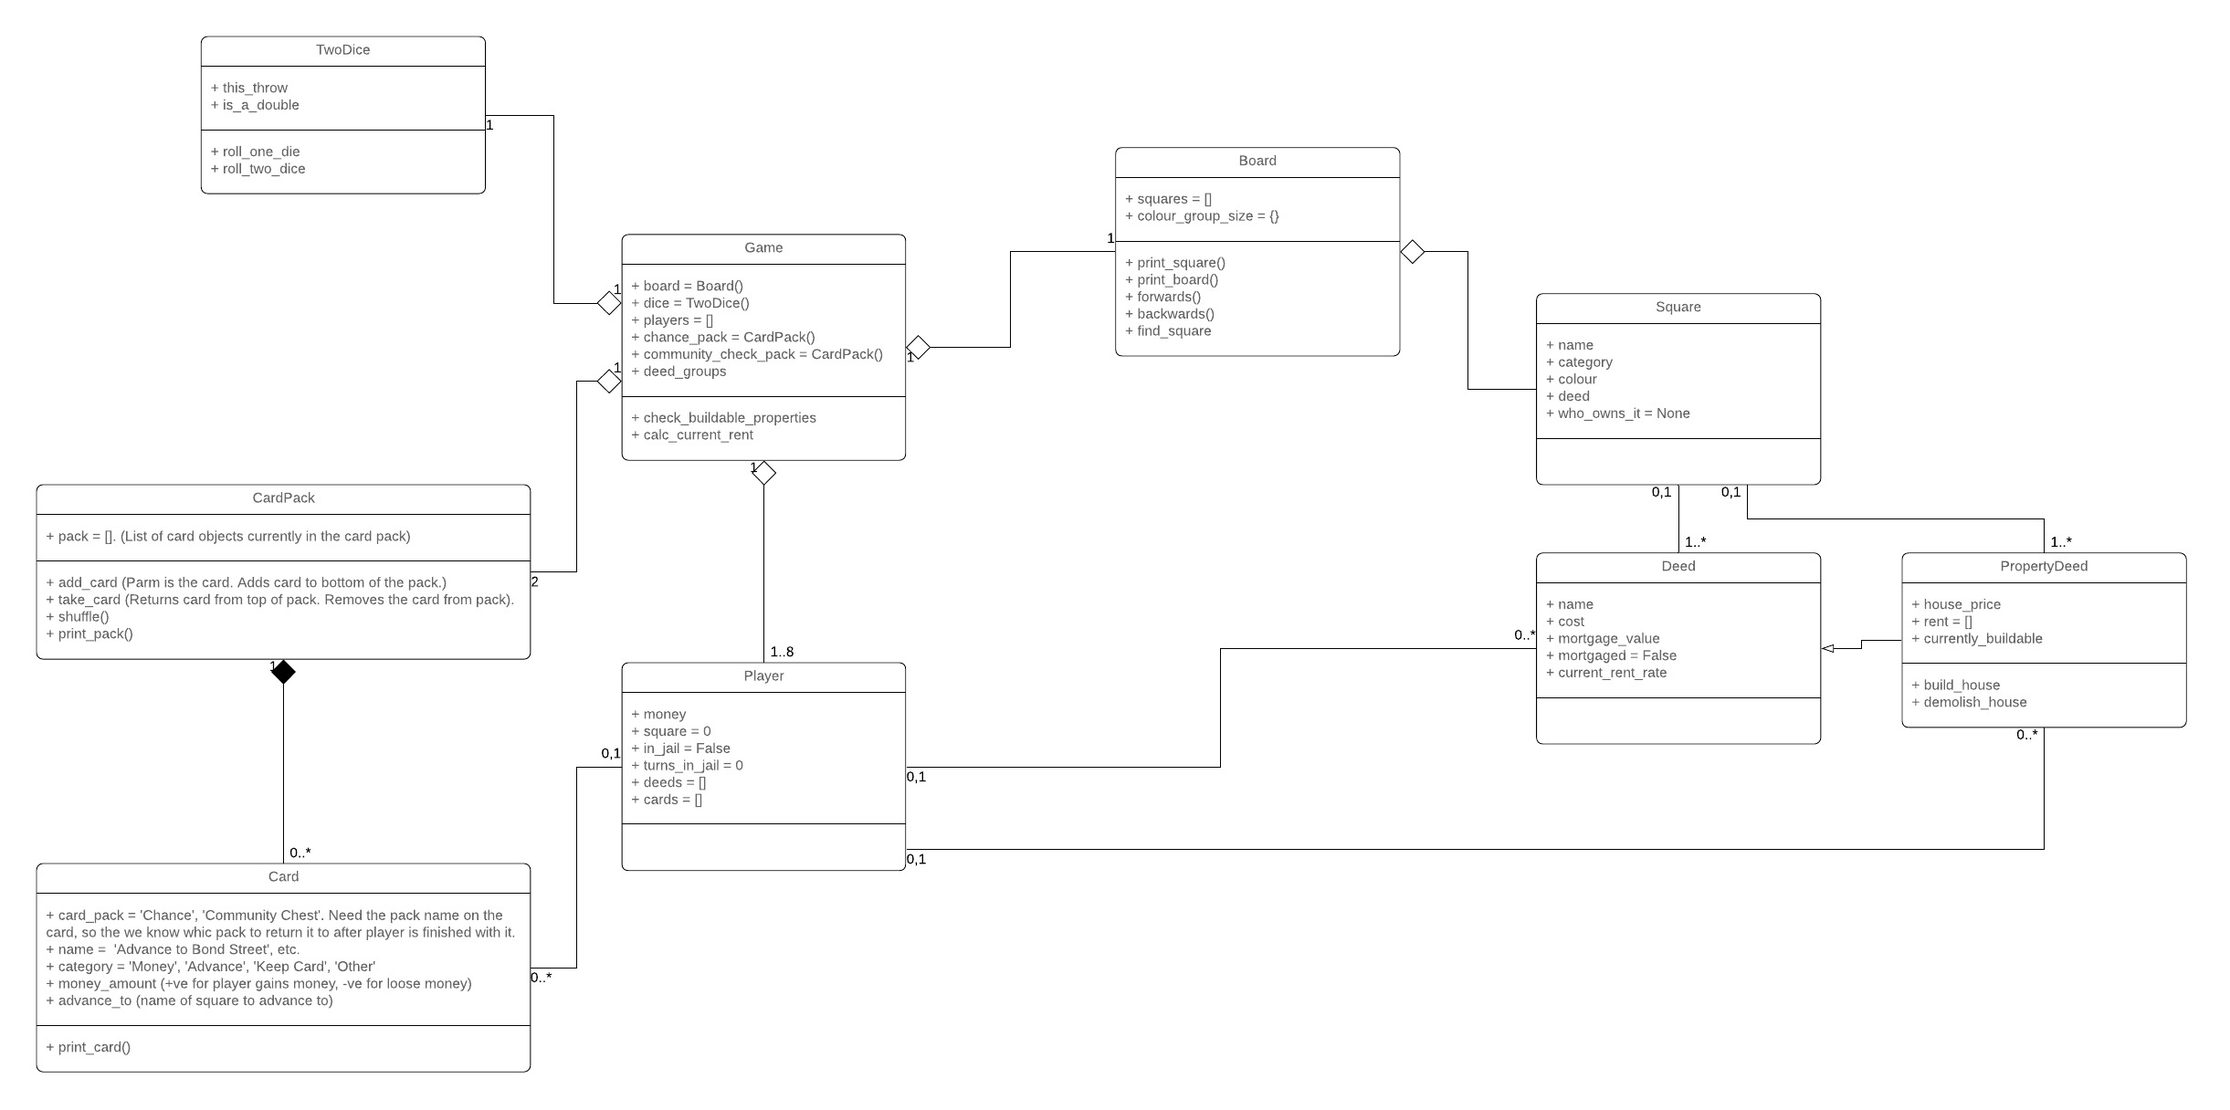
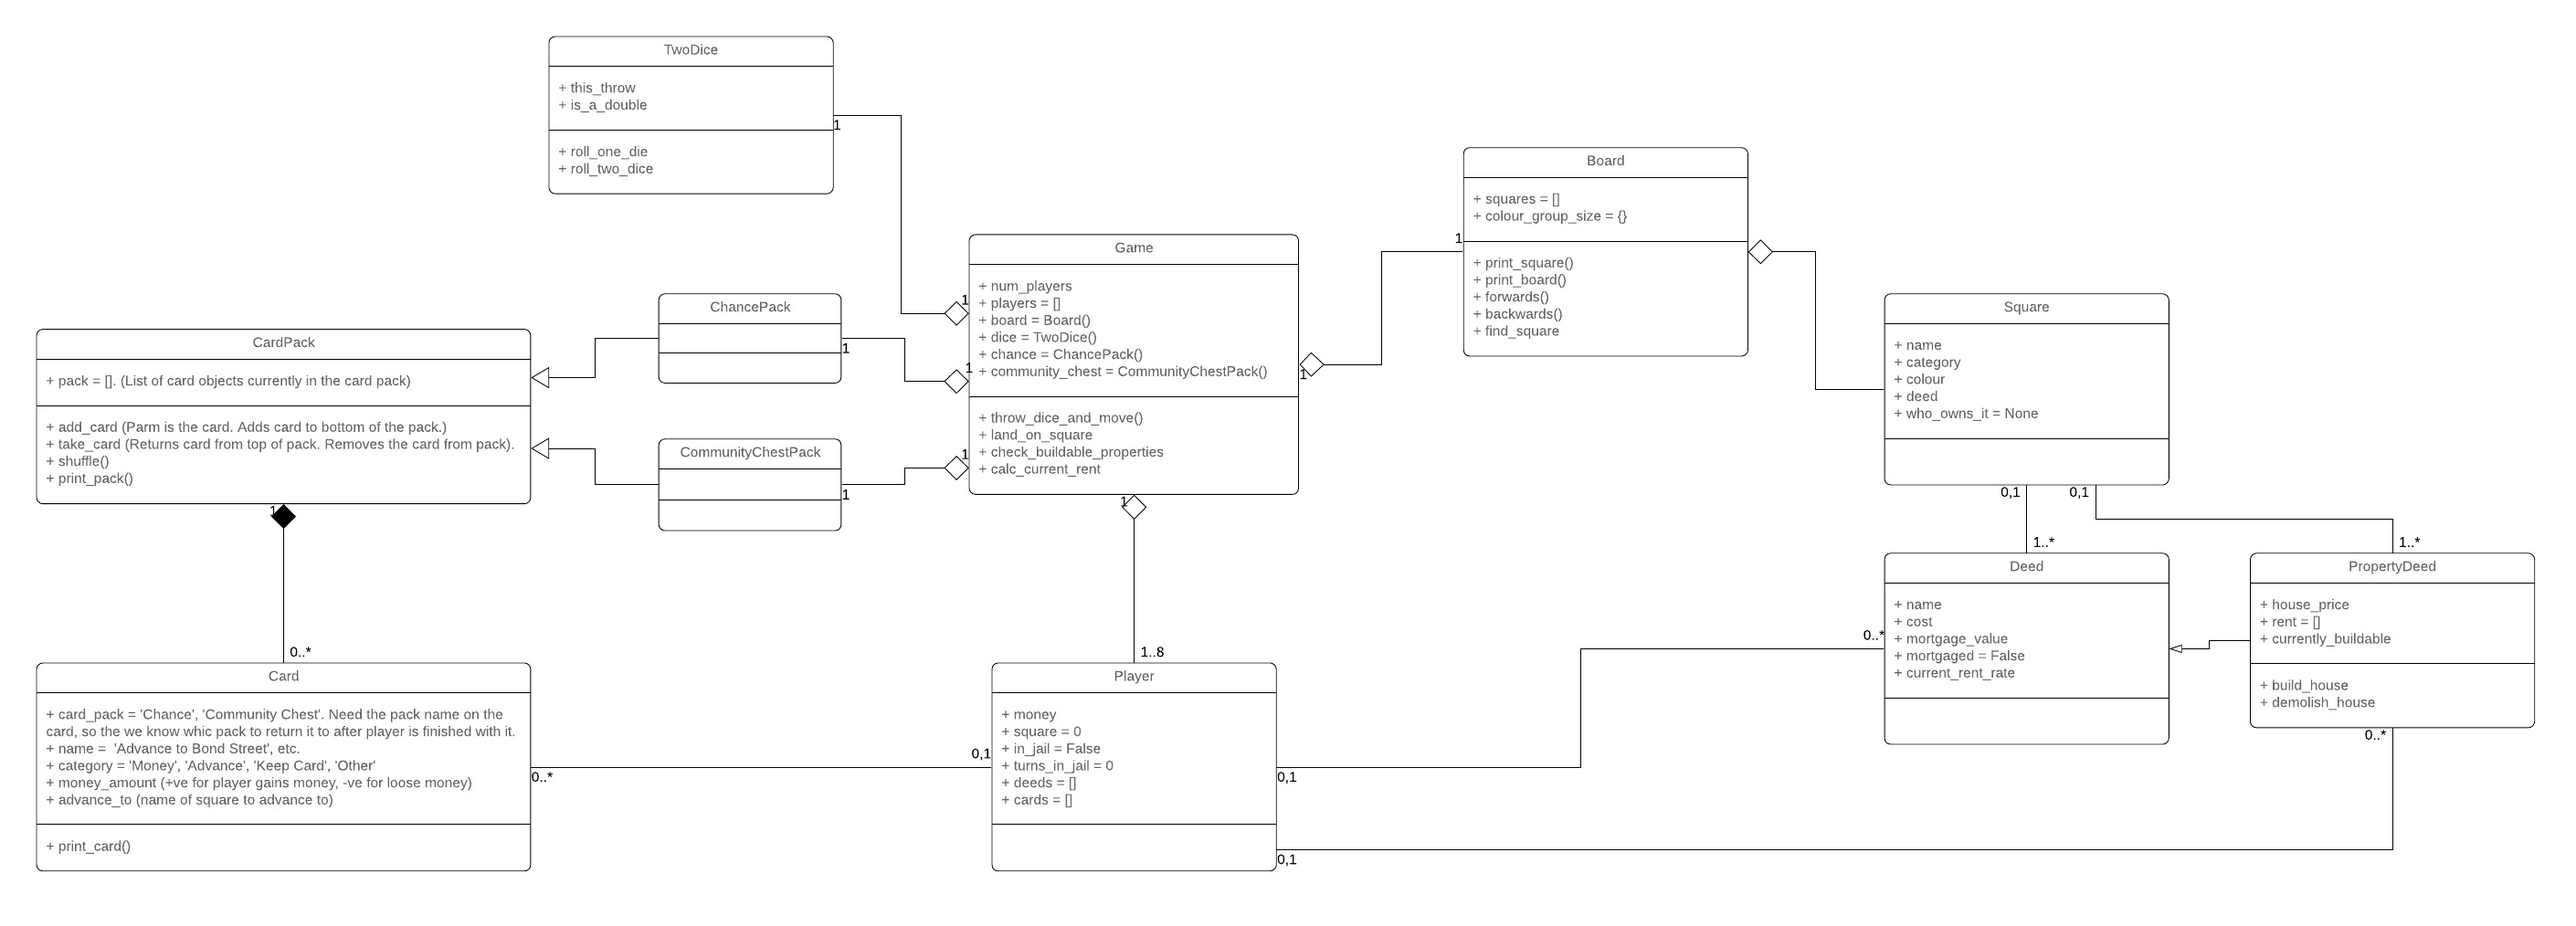
Added ChancePack and CommunityChestPack.

diff --git a/tests/unit_tests.py b/tests/unit_tests.py
@@ -91,41 +91,28 @@ class TestBoard(unittest.TestCase):
 
 class TestCards(unittest.TestCase):
 
-    def test_chance_pack(self):
+    def test_card_packs(self):
 
-        test_chance = cards.CardPack('Chance', 'chance_cards.csv')
         test_board = board.Board()
+        test_chance = cards.ChancePack(shuffle_it=True)
+        test_community_chest = cards.CommunityChestPack(shuffle_it=True)
 
-        for c in test_chance.pack:
+        for pack in [test_chance.pack, test_community_chest.pack]:  # Test both of the card packs.
 
-            # advance_to should be a square on the board for Advance cards.
-            if c.category == 'Advance':
-                self.assertEqual(test_board.find_square(c.advance_to) is not None, True)
+            self.assertEqual(len(pack), 16)                         # There should be 16 cards in each pack.
 
-            # money_amount should not be zero for Money card.
-            elif c.category == 'Money':
-                self.assertEqual(c.money_amount != 0, True)
+            for card in pack:                                       # Test each card in each pack.
 
-    def test_community_chest_pack(self):
+                # advance_to should be a square on the board for Advance cards.
+                if card.category == 'Advance':
+                    self.assertEqual(test_board.find_square(card.advance_to) is not None, True)
 
-        test_community_chest = cards.CardPack('Community Chest', 'community_chest_cards.csv')
-        test_board = board.Board()
-
-        for c in test_community_chest.pack:
-
-            # advance_to should be a square on the board for Advance cards.
-            if c.category == 'Advance':
-                self.assertEqual(test_board.find_square(c.advance_to) is not None, True)
-
-            # money_amount should not be zero for Money card.
-            elif c.category == 'Money':
-                self.assertEqual(c.money_amount != 0, True)
-
-        # There should be 16 Community Chest cards.
-        self.assertEqual(len(test_community_chest.pack), 16)
+                # money_amount should not be zero for Money card.
+                elif card.category == 'Money':
+                    self.assertEqual(card.money_amount != 0, True)
 
     def test_take_card(self):
-        test_chance = cards.CardPack('Chance', 'chance_cards.csv')
+        test_chance = cards.ChancePack(shuffle_it=False)
 
         # There should be 16 Chance cards.
         self.assertEqual(len(test_chance.pack), 16)
@@ -164,7 +151,7 @@ class TestGame(unittest.TestCase):
 
     def test_game(self):
 
-        test_game = game.Game(4, False)     # 4 players, non-verbose mode.
+        test_game = game.Game(num_players=4, verbose=False)
 
         # The stats lists should have same number of elements as there are square on the board.
         self.assertEqual(len(test_game.land_on_frequency), len(test_game.board.squares))

diff --git a/game.py b/game.py
@@ -12,22 +12,18 @@ class Game:
 
         self.num_players = num_players
         self.verbose = verbose                  # True means a lot of trace will be sent to stdout.
-        self.players = []                       # Each element is a player object.
 
         # Make a list of players.
+        self.players = []                       # Each element is a player object.
         for i in range(num_players):
             self.players.append(player.Player())
 
         self.board = board.Board()              # The game needs a board...
         self.dice = dice.TwoDice()              # ...and some dice.
 
-        # Create the Chance cards, and shuffle them.
-        self.chance = cards.CardPack('Chance', 'chance_cards.csv')
-        self.chance.shuffle()
-
-        # Create the Community Chest cards, and shuffle them.
-        self.community_chest = cards.CardPack('Community Chest', 'community_chest_cards.csv')
-        self.community_chest.shuffle()
+        # Create the card packs.
+        self.chance = cards.ChancePack(shuffle_it=True)
+        self.community_chest = cards.CommunityChestPack(shuffle_it=True)
 
         # These attributes are for collecting stats as the game is played.
         # Initialised to a list of zeros, one for each square on the board.
@@ -42,11 +38,9 @@ class Game:
     def print_player_status(self, this_player):
         print('Square =', self.board.squares[this_player.square].name)
 
-
     # TODO Method - go_to_jail.
 
     # TODO Method - land_on_square. If the player is not in jail, do the action(s) required by the square they are on.
-
 
     # Player takes a throw_dice_and_move of the game.
     def throw_dice_and_move(self, this_player):
@@ -73,7 +67,6 @@ class Game:
 
         if self.verbose:
             self.print_player_status(this_player)
-
 
         # TODO Act depending on the type of square they've landed on.
 

diff --git a/cards.py b/cards.py
@@ -10,7 +10,7 @@ class Card:
         # Need the pack name on the card, so the we know which pack to return it to after player is finished with it.
         self.pack_name = pack_name
 
-        self.card_name = card_name                    # Advance to Bond Street', etc.
+        self.card_name = card_name          # Advance to Bond Street', etc.
         self.category = category            # Money, Advance, Keep Card, Other
         self.money_amount = money_amount    # (+ve for player gains money, -ve for loose money)
         self.advance_to = advance_to        # Name of square to advance to.
@@ -33,6 +33,7 @@ class Card:
             print()
 
 
+# Parent class for packs of cards.
 class CardPack:
 
     # Add parm card to bottom of pack.
@@ -43,7 +44,7 @@ class CardPack:
     def shuffle(self):
         random.shuffle(self.pack)
 
-    def __init__(self, pack_name, filename):
+    def __init__(self, pack_name: str, filename: str):
 
         self.pack_name = pack_name
         self.pack = []                                      # List of card objects currently in the card pack.
@@ -72,3 +73,24 @@ class CardPack:
     # Returns one card from top of pack. Removes the card from pack.
     def take_card(self):
         return self.pack.pop(0)
+
+
+# Child class for Chance cards.
+# Having this child class means that details like the CSV filename is contained in this module.
+class ChancePack(CardPack):
+
+    def __init__(self, shuffle_it: bool):
+
+        CardPack.__init__(self, 'Chance', 'chance_cards.csv')
+        if shuffle_it:
+            self.shuffle()
+
+
+# Child class for Community Chest cards.
+class CommunityChestPack(CardPack):
+
+    def __init__(self, shuffle_it: bool):
+
+        CardPack.__init__(self, 'Community Chest', 'community_chest_cards.csv')
+        if shuffle_it:
+            self.shuffle()

diff --git a/tests/print_cards.py b/tests/print_cards.py
@@ -2,9 +2,10 @@
 
 import cards
 
+chance_cards = cards.ChancePack(shuffle_it=True)
+chance_cards.print_pack()
 
-chance_cards = cards.CardPack('Chance', 'chance_cards.csv')
-chance_cards.print_pack()
 print()
-chance_cards.shuffle()
-chance_cards.print_pack()
+
+community_chest_cards = cards.CommunityChestPack(shuffle_it=True)
+community_chest_cards.print_pack()

diff --git a/dice.py b/dice.py
@@ -3,10 +3,10 @@
 import random
 
 
-# Class for a pair of dice.
 class TwoDice:
 
     def __init__(self):
+
         self.this_throw = 0                 # Total value of this throw of the dice.
         self.is_a_double = False            # True iff the two thrown dice match.
 
